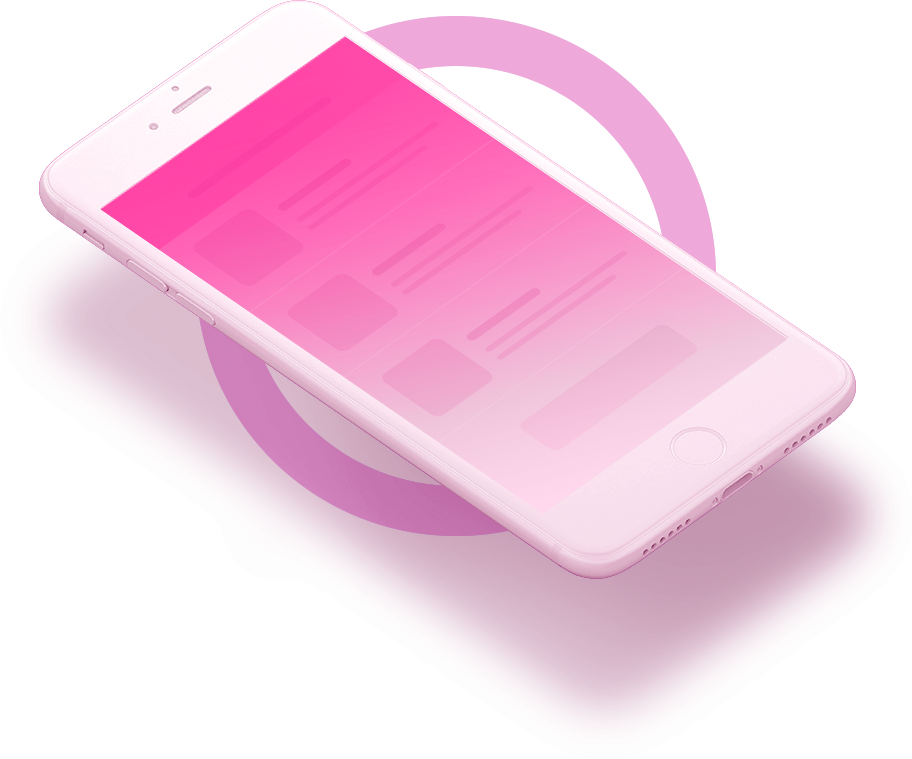
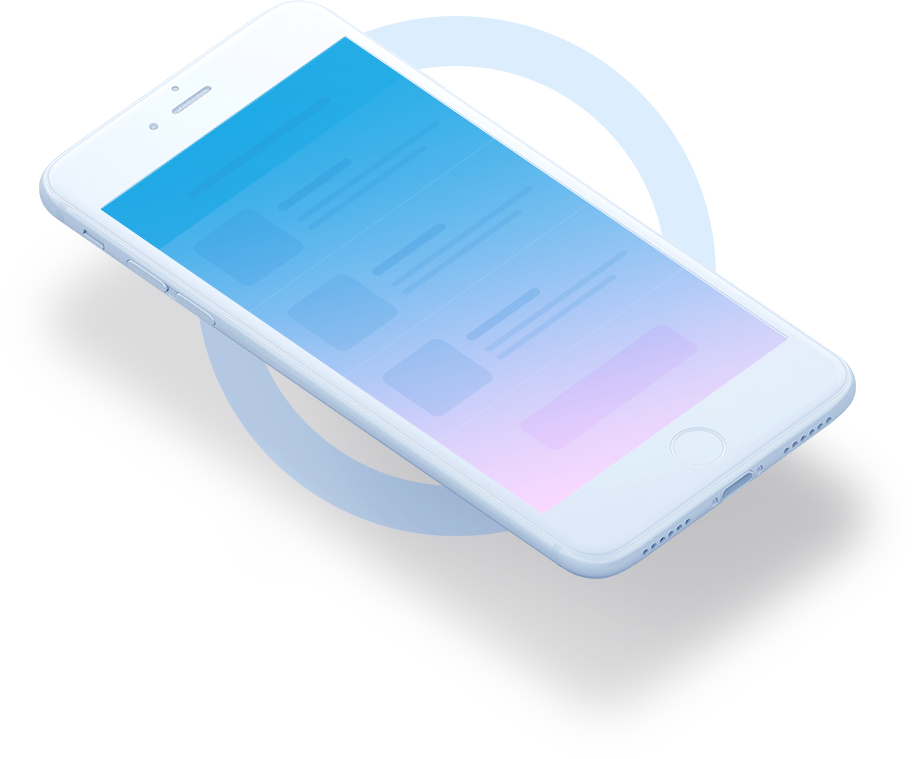
voltando ao normal

diff --git a/source/scss/style.scss b/source/scss/style.scss
@@ -82,18 +82,19 @@ $lato-bold: 'Lato Bold';
 
 //default colors
 $white: #FFFFFF;
-$blue-1: #FF0589;
-$blue-2: #FF0589;
-$blue-3: #ffe4f3;
+$blue-1: #435877;
+$blue-2: #009fe2;
+$blue-3: #7fcff0;
 $blue-4: #a1caff;
 $cyan: #75f7db;
-$gray-1: #9a7e8b;
+$gray-1: #7e8f9a;
 $gray-2: #ededf7;
-$gray-3: #f9f8f9;
-$pink-1: #FF0589;
+$gray-3: #f8f8f9;
+$pink-1: #ff0589;
 $pink-2: #f8d8ff;
 $salmon: #fdb092;
 $yellow: #fae822;
+$magenta-1: #ff0589;
 $blue-1-op: rgba(67, 88, 119, 0.95);
 
 //default font-sizes
@@ -301,7 +302,7 @@ section{
 				width: 32px;
 			}
 			span{
-				background-color: $blue-2;
+				background-color: $magenta-1;
 				position: absolute;
 				transition: transform .2s, top .2s .2s ease-in-out, opacity .05s .2s;
 				&:nth-child(1){
@@ -410,7 +411,7 @@ section{
 	width: 100vw;
 	display: flex;
 	flex-wrap: nowrap;
-	background: transparent linear-gradient(-41deg, #f8f2f8, #eeebee) top right/calc(50% - 1.14583vw) 100% no-repeat fixed;
+	background: transparent linear-gradient(-41deg, #f2f5f8, #ebecee) top right/calc(50% - 1.14583vw) 100% no-repeat fixed;
 	border-bottom: $border-default;
 	.wrapper{
 		display: table;
